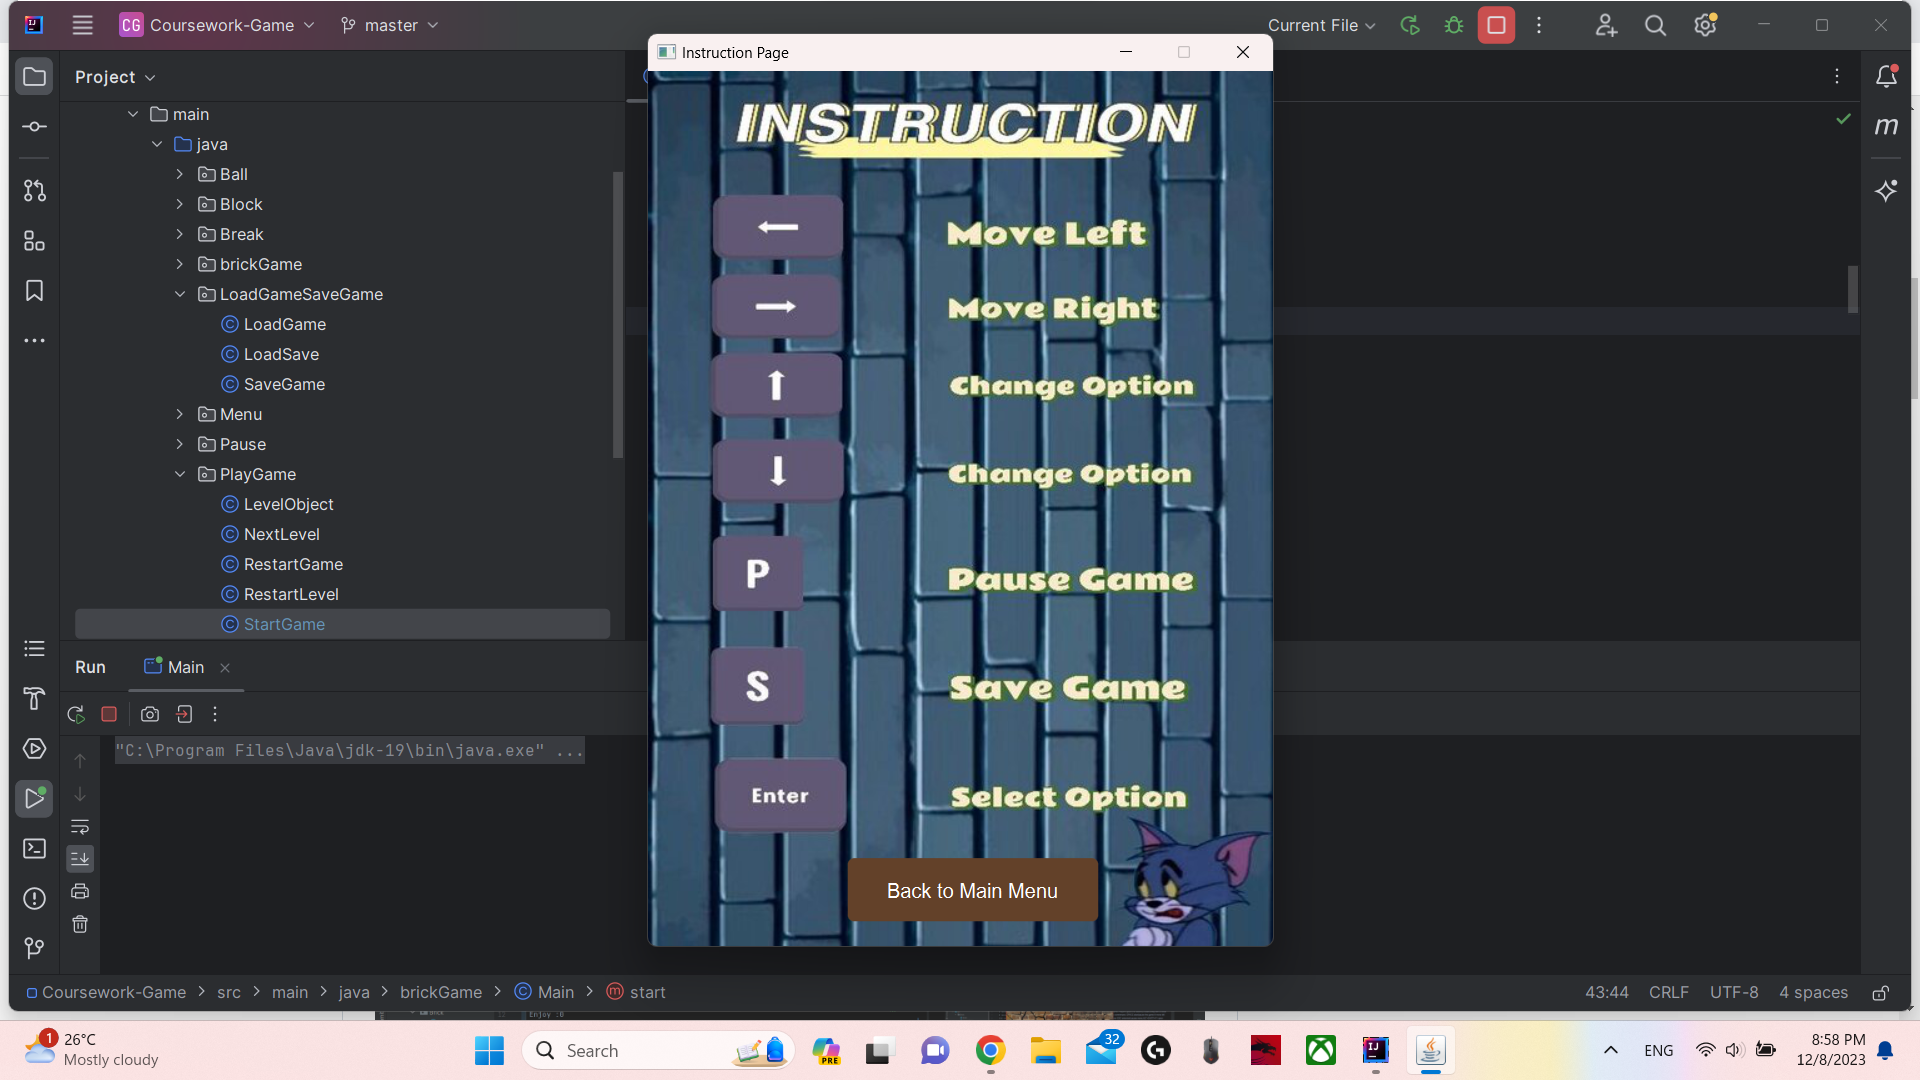
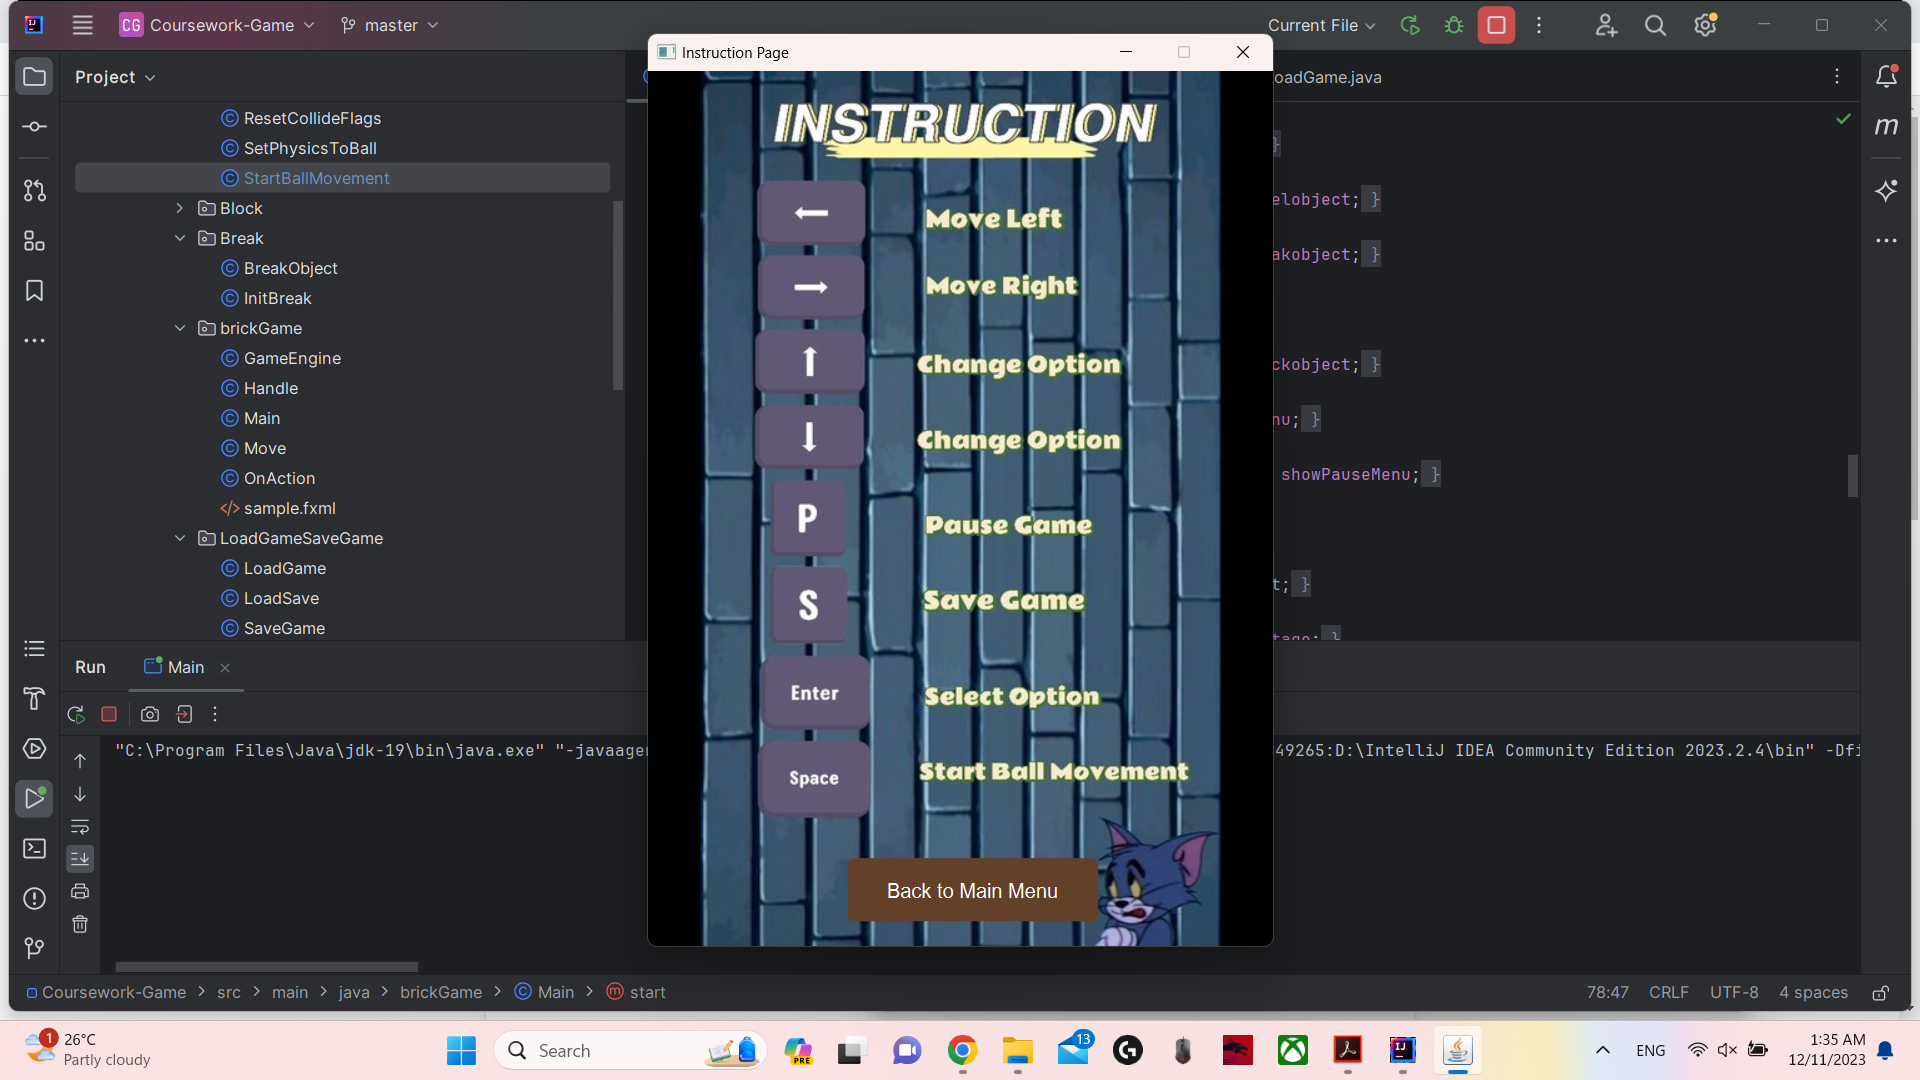
Change the instruction.jpg and Instruction_Page.png
Add javadoc for StartBallMovement.java
Display line to notice player space for start ball movement

diff --git a/src/main/java/Ball/StartBallMovement.java b/src/main/java/Ball/StartBallMovement.java
@@ -3,9 +3,19 @@ package Ball;
 
 import brickGame.Main;
 
+/**
+ * This class is responsible for initiating the movement of the ball in the game.
+ * It provides a method to start the ball movement by setting the appropriate flag.
+ */
 public class StartBallMovement {
 
-    private Main main;
+    /**
+     * Initiates the movement of the ball in the game by allowing ball movement.
+     * This method sets the ball movement flag to {@code true}.
+     *
+     * @param main The Main class instance associated with the game.
+     *             It should not be {@code null}.
+     */
     public void startBallMovement(Main main){
         main.getBo().setBallMovementAllowed(true);
 

diff --git a/src/main/java/PlayGame/StartGame.java b/src/main/java/PlayGame/StartGame.java
@@ -56,6 +56,7 @@ public class StartGame {
                     }
                 }
             }
+            System.out.println("\nSPACE to start the ball movement");
             main.getBo().setBall(new Circle());
             initball.initBall(main.getBo());
             main.getBo().getBall().setCenterX(main.getBo().getxBall());
